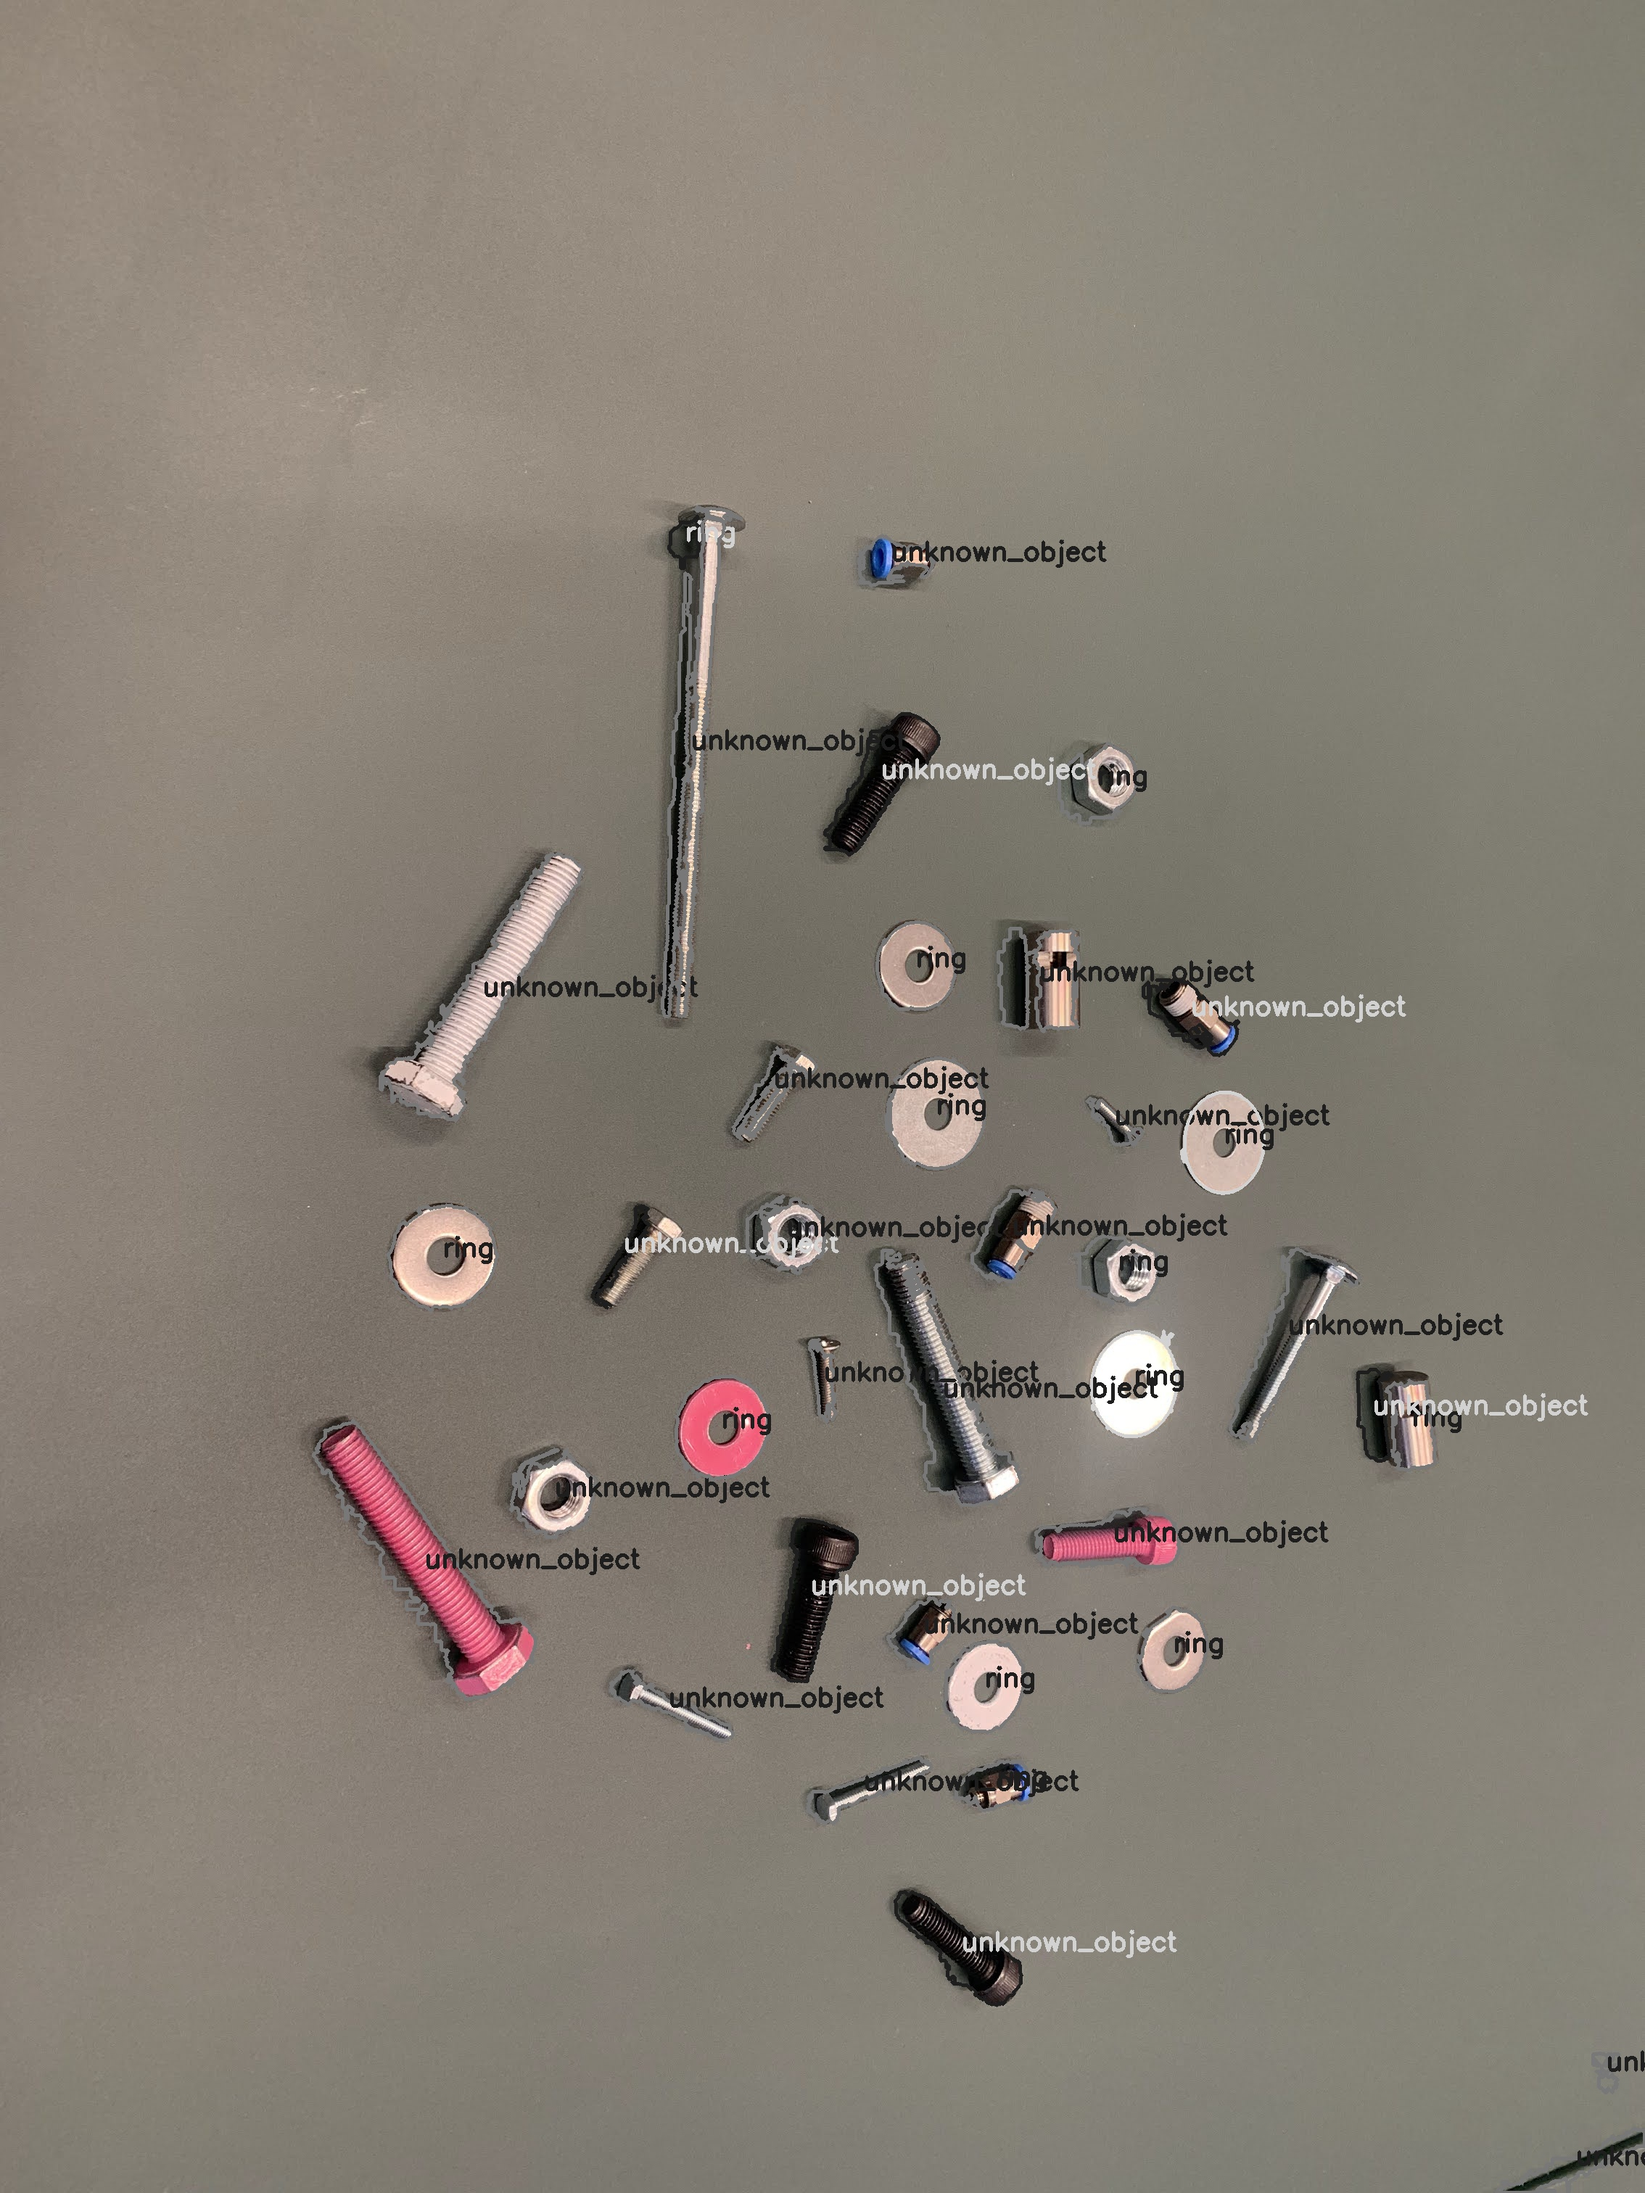
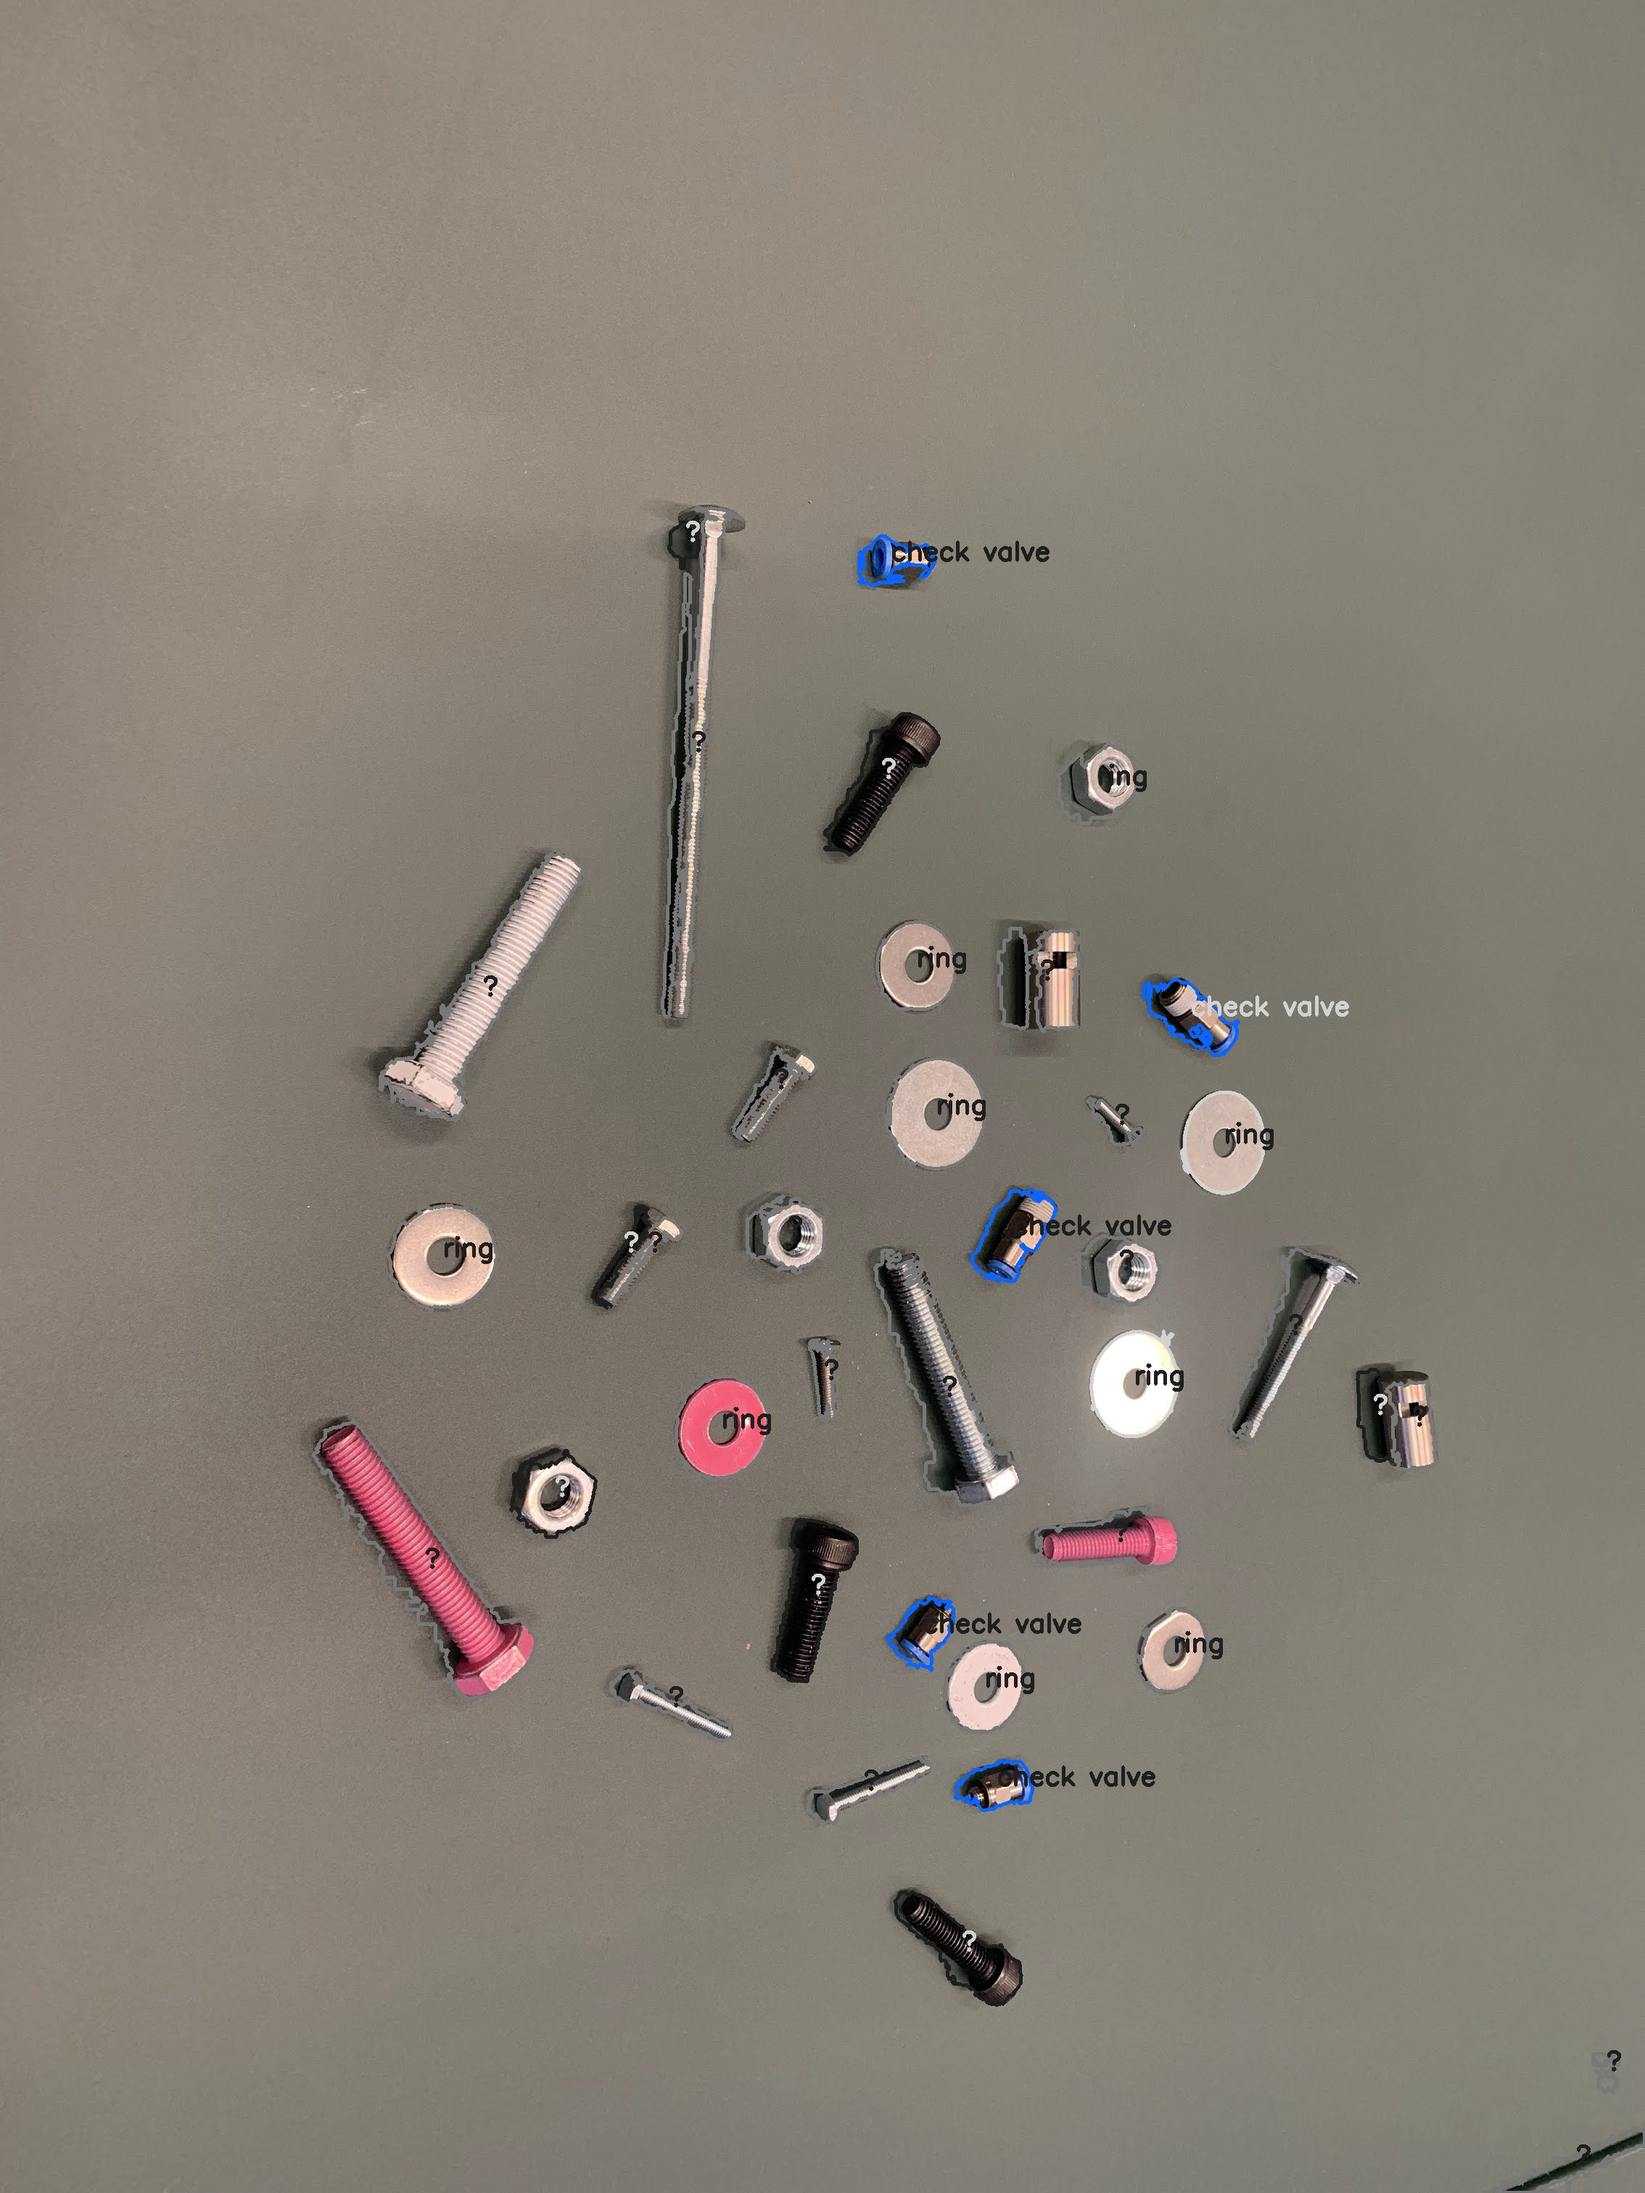
added check_valve detector, added annotations to the readme. And improved .gitignore

diff --git a/conventional/Conventional.py b/conventional/Conventional.py
@@ -42,10 +42,11 @@ root_dir    = os.path.abspath("./")
 input_dir   = os.path.join(root_dir,'input_conventional','*.jpg')
 output_dir  = None # later defined 
 
-#             Hue, Saturation, Value
-lower_color = (10,     20,      35)
-upper_color = (30,     200,     180)
-
+#                        Hue, Saturation, Value
+lower_background_color = (10,     20,      35)
+upper_background_color = (30,     200,     170)
+lower_blue             = (80,     120,     20)
+upper_blue             = (100,    255,     255)
 # how big the smallest area should be, the other ones get filtered.
 filter_contour_area = 900
 
@@ -54,10 +55,11 @@ kernel = np.ones((4, 4), np.uint8)
 
 # pre-defined colors (BGR)
 #TODO: Check if color value's corresponts. Or change the heuristic.
-white: np.ndarray  = np.array(["white",  (210,210,210)],   dtype=object)
-black: np.ndarray  = np.array(["black",  (30, 30, 30)],    dtype=object)
-pink: np.ndarray   = np.array(["pink",   (120, 90 , 220)], dtype=object)
-metal: np.ndarray  = np.array(["metal",  (120, 120 ,120)], dtype=object)
+white: np.ndarray  = np.array(["white",  (210,210 ,210 )],   dtype=object)
+black: np.ndarray  = np.array(["black",  (30, 30  , 30 )],    dtype=object)
+pink:  np.ndarray  = np.array(["pink",   (120, 90 , 220)], dtype=object)
+metal: np.ndarray  = np.array(["metal",  (120, 120,120 )], dtype=object)
+blue:  np.ndarray  = np.array(["blue",   (255  , 100  ,10 )],  dtype=object)
 colors: list = (white, black, pink, metal)
 
 # -=-=-=-=- DECLARE FUNCTIONS -=-=-=-=- #
@@ -68,13 +70,21 @@ def roundness(contour, moments) -> float:
     return k
 
 # TODO: Find ways to detect the other objects
-def find_object(contour, moment) -> str:
+def find_object(contour, moment, mask) -> str:
     k_value = roundness(contour, moment)
-    if k_value < 3:
-        chosen_object = 'ring'
+    
+    blue_mask = np.zeros(mask.shape[:2], dtype="uint8")
+    cv.drawContours(blue_mask, [contour], -1, 255, -1)
+    individual_masks = cv.bitwise_and(mask, mask, mask = blue_mask)
+    blue_mask = cv.inRange(individual_masks, lower_blue, upper_blue)
+    
+    # print(np.mean(blue_mask))
+    if np.mean(blue_mask) > 0:
+        return 'check valve'
+    elif k_value < 2.5:
+        return 'ring'
     else:
-        chosen_object = 'unknown_object'
-    return chosen_object
+        return '?'
 
 def find_color(contour, original_image) -> str:
     
@@ -116,20 +126,22 @@ for img in images:
     # set image in hue color space
     hsv_image = cv.cvtColor(img.cv_image, cv.COLOR_BGR2HSV)
     
+    # filter image on HSV color ranges
+    mask = cv.inRange(hsv_image, lower_background_color, upper_background_color)
     # erode / dilate images for better quality masks
-    mask = cv.inRange(hsv_image, lower_color, upper_color)
-    mask = cv.bitwise_not(mask)
-    
-    cv.erode(mask, kernel, iterations=1)
-    cv.erode(mask, kernel, iterations=1)
+    mask_binary = cv.bitwise_not(mask)
+    mask_with_color = cv.bitwise_and(hsv_image, img.cv_image, mask = mask_binary)
 
-    cv.dilate(mask, kernel, iterations=1)
-    cv.dilate(mask, kernel, iterations=1)
-    cv.dilate(mask, kernel, iterations=1)
-    
+    cv.erode(mask_binary, kernel, iterations=1)
+    cv.erode(mask_binary, kernel, iterations=1)
+
+    cv.dilate(mask_binary, kernel, iterations=1)
+    cv.dilate(mask_binary, kernel, iterations=1)
+    cv.dilate(mask_binary, kernel, iterations=1)
+
     # -=-=- FIND CONTOURS -=-=- #
-    contours, hierarchy = cv.findContours(mask, cv.RETR_EXTERNAL, cv.CHAIN_APPROX_NONE)
-    
+    contours, hierarchy = cv.findContours(mask_binary, cv.RETR_EXTERNAL, cv.CHAIN_APPROX_NONE)
+
     # -=- filter and add information to contours -=- #
     for contour in contours:
         if (cv.contourArea(contour) > filter_contour_area):
@@ -140,12 +152,12 @@ for img in images:
 
             # -=- find oriëntation -=- #
             (x,y),(MA,ma),angle = cv.fitEllipse(contour)
-            
+
             # -=- find closest color -=- #
             color = find_color(contour, img.cv_image)
             
             # -=- find kind of object -=- #
-            identified_item = find_object(contour, M)
+            identified_item = find_object(contour, M, mask_with_color)
             
             # -=- add to list -=- #
             item = object(contour, identified_item, (cX, cY), angle, color)
@@ -155,7 +167,9 @@ for img in images:
 
     # -=-=- draw contours and put text -=-=- #    
     for contour in range(len(img.contours)):
-        if img.contours[contour].color == 'white':
+        if img.contours[contour].kind_of_object == 'check valve':
+            color = blue[1]
+        elif img.contours[contour].color == 'white':
             color = white[1]
         elif img.contours[contour].color == 'black':
             color = black[1]
@@ -178,9 +192,9 @@ for img in images:
     cv.imwrite(output_dir, img.cv_image)
     
     # -=-=- save data to csv -=-=- #
-    # with open('./output_data.csv', 'a', encoding='UTF8', newline='') as csv_file:
-    #     csv_writer = csv.writer(csv_file)
-    #     for contour in range(len(img.contours)):
-    #         csv_writer.writerow((img.name, img.contours[contour].kind_of_object, 1, img.contours[contour].position, img.contours[contour].oriëntation, img.contours[contour].color))
+    with open('./output_data.csv', 'a', encoding='UTF8', newline='') as csv_file:
+        csv_writer = csv.writer(csv_file)
+        for contour in range(len(img.contours)):
+            csv_writer.writerow((img.name, img.contours[contour].kind_of_object, 1, img.contours[contour].position, img.contours[contour].oriëntation, img.contours[contour].color))
             
 print("done! data saved to: output_data.csv")

diff --git a/README.md b/README.md
@@ -73,6 +73,7 @@ if there are any problems please open a ticket or send me a message *(The requir
 │   │   ├── img_1.jpg
 │   │   ├── ...
 │   ├── train <- training folder, here should be the bulk of our images
+│   │   ├── annotations.json <- has annotations for our project. can be opened with vgg image annotator 
 │   │   ├── img_1.jpg
 │   │   ├── ...
 │   ├── valid <- map for validation
